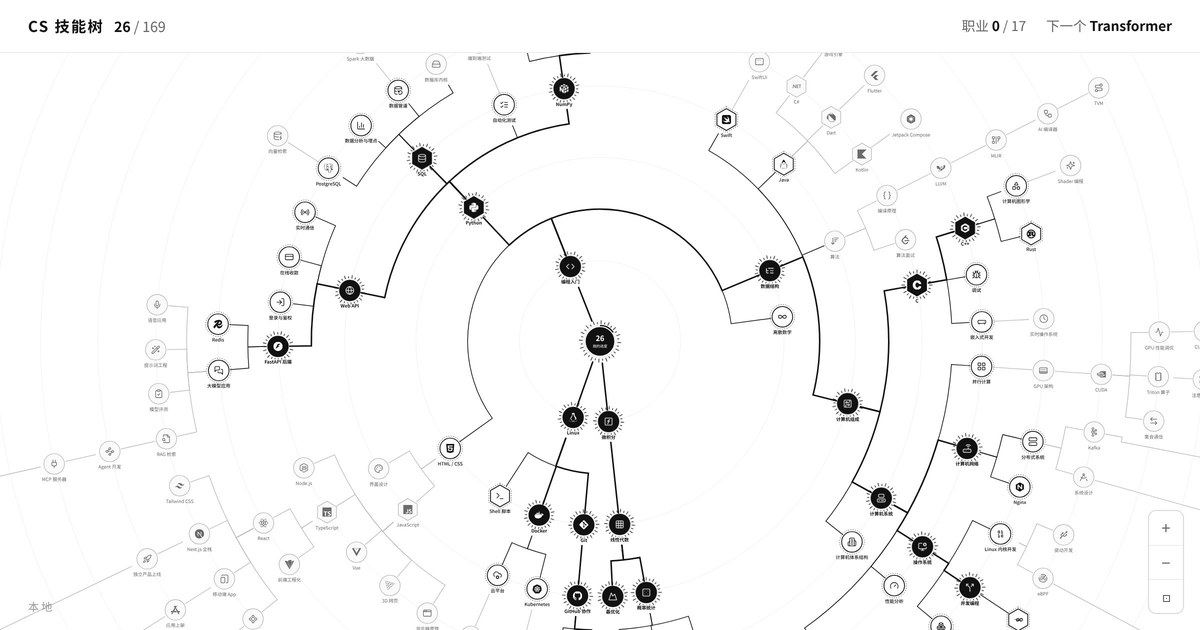
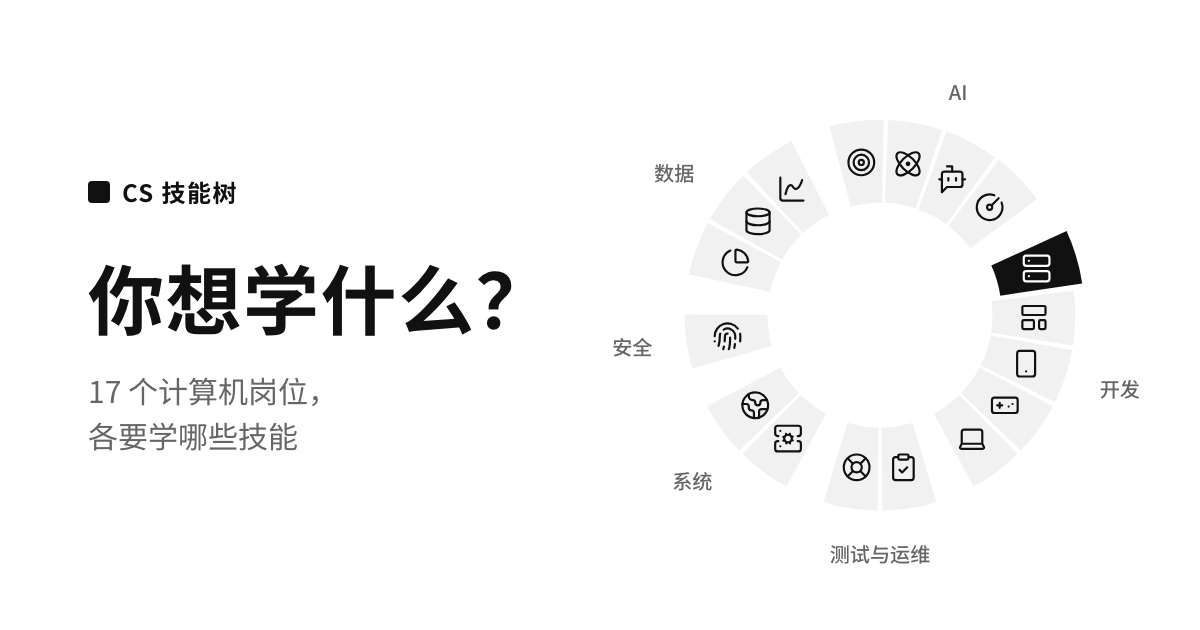
首页为 X 分享优化
- 新的分享卡片图，标题和描述改成“你想学什么？17 个计算机岗位，各要学哪些技能”
- 手机第一屏放下标题、圆环和提示；顶栏改成文字链接
- 圆环去掉灰色轨道，扇形更浅，类别名更细
- 技能选项引用同一份图标，页面减半

diff --git a/scripts/pages.ts b/scripts/pages.ts
@@ -89,7 +89,7 @@ ${p.app === undefined ? site(root, p.body) : `<div id="root">\n${p.body}\n</div>
 /** 站点的页头、正文、页脚 */
 const site = (root: string, body: string) => `<header class="top">
   <a class="logo" href="${root}"><span class="mark"></span>${NAME}</a>
-  <nav><a class="btn" href="${root}tree/">打开技能树</a></nav>
+  <nav><a href="${root}tree/">全部技能</a></nav>
 </header>
 <main>
 ${body}
@@ -114,7 +114,7 @@ export function renderSite(rm: Roadmap, app = ''): Map<string, string> {
     const l = layoutTree(tree, { career: c.id })
     // 小树不写名字，层和层之间压紧一点（K）；横着的就是把往上长的整棵转 90°：往上变成往右，图标不转
     const K = 0.55
-    const P = (x: number, y: number) => (side ? [-y * K, x] : [x, y * K])
+    const P = (x: number, y: number) => (side ? [-y * K, x] : [x, y * K]).map(Math.round)
     const { minX, maxX } = l.bounds
     const [minY, maxY] = [l.bounds.minY * K, l.bounds.maxY * K]
     const [vx, vy, vw, vh] = (side ? [-maxY, minX, maxY - minY, maxX - minX] : [minX, minY, maxX - minX, maxY - minY]).map(Math.round)
@@ -190,7 +190,7 @@ export function renderSite(rm: Roadmap, app = ''): Map<string, string> {
         parts.push(`<a class="job" href="career/${c.id}/" data-id="${c.id}" data-name="${esc(c.name)}" data-cat="${esc(cat.name)}" data-intro="${esc(c.intro)}" data-tx="${tx}" data-ty="${ty}" style="--i:${i++};--dx:${dx}px;--dy:${dy}px" aria-label="${esc(c.name)}">` +
           `<g class="w"><path class="wedge" d="M${ox1},${oy1} A${RO},${RO} 0 0 1 ${ox2},${oy2} L${ix2},${iy2} A${RI},${RI} 0 0 0 ${jx1},${jy1}Z"/>` +
           `<g transform="translate(${r1(ix - 26)},${r1(iy - 26)}) scale(2.17)">${icon(c.icon)}</g>` +
-          `<path class="track" d="${arc(RP, b1, b2)}"/><path class="prog" d="${arc(RP, b1, b2)}" pathLength="100" stroke-dasharray="0 100"/></g></a>`)
+          `<path class="prog" d="${arc(RP, b1, b2)}" pathLength="100" stroke-dasharray="0 100"/></g></a>`)
         pos++
       }
       pos += GAP
@@ -208,8 +208,8 @@ export function renderSite(rm: Roadmap, app = ''): Map<string, string> {
     }
     put({
       path: '',
-      title: `${NAME}：${rm.skills.length} 个计算机技能和 ${rm.subs.length} 个职业的学习路线`,
-      description: `一棵 ${rm.skills.length} 个技能的计算机技能树：点亮你会的，看清自己的能力边界，按 ${rm.subs.length} 个职业倒推学习路线，每个技能附公开课。免费，不用注册。`,
+      title: `你想学什么？${rm.subs.length} 个计算机岗位，各要学哪些技能 | ${NAME}`,
+      description: `${rm.subs.length} 个计算机岗位，各要学哪些技能、按什么顺序学、去哪免费学。点亮你会的，看离岗位还差几个。免费，不用注册。`,
       body: `
 <script>
 /* 技能树以前在首页：旧的分享链接和技能链接（#share=… / #/skill/…）转到 tree/ */
@@ -231,7 +231,7 @@ try {
     <p class="pk-meta"></p>
     <p class="pk-intro"></p>
     <div class="minis">${rm.subs.map((c) => `<div class="mini" data-id="${c.id}">${miniTree(c, false)}${miniTree(c, true)}</div>`).join('')}</div>
-    ${rm.subs.map((c) => `<div class="has" data-id="${c.id}"><p class="pk-ask">要学这 ${c.plan.length} 个，会的点一下</p><div class="quick">${c.plan.map(({ skillId: id }) => `<button type="button" class="chip" data-s="${id}" aria-pressed="false">${icon(sk(id).icon, 14)}${esc(sk(id).name)}</button>`).join('')}</div></div>`).join('')}
+    ${rm.subs.map((c) => `<div class="has" data-id="${c.id}"><p class="pk-ask">要学这 ${c.plan.length} 个，会的点一下</p><div class="quick">${c.plan.map(({ skillId: id }) => `<button type="button" class="chip" data-s="${id}" aria-pressed="false"><svg width="14" height="14" aria-hidden="true"><use href="#i-${id}"/></svg>${esc(sk(id).name)}</button>`).join('')}</div></div>`).join('')}
     <a class="go" href="">就学这个</a>
   </aside>
 </div>

diff --git a/site/site.css b/site/site.css
@@ -12,10 +12,10 @@ h1, h2, h3 { line-height: 1.25; margin: 0; }
 .top { position: sticky; top: 0; z-index: 10; display: flex; align-items: center; justify-content: space-between; gap: 16px; height: 60px; padding: 0 24px; background: rgba(255,255,255,.92); backdrop-filter: blur(8px); border-bottom: 1px solid var(--line-2); }
 .logo { display: flex; align-items: center; gap: 10px; font-weight: 700; letter-spacing: .06em; text-decoration: none; white-space: nowrap; }
 .logo .mark { width: 16px; height: 16px; border-radius: 3px; background: var(--ink); }
-.top nav { display: flex; align-items: center; gap: 22px; font-size: 14px; }
+.top nav { display: flex; align-items: center; gap: 22px; font-size: 13px; }
+.top nav a { color: var(--ink-2); text-decoration: none; }
+.top nav a:hover { color: var(--ink); }
 
-.btn { display: inline-flex; align-items: center; gap: 6px; padding: 8px 16px; border: 1.5px solid var(--ink); border-radius: 999px; background: var(--ink); color: #fff; font-weight: 700; text-decoration: none; white-space: nowrap; transition: transform .2s var(--ease), box-shadow .2s var(--ease); }
-.btn:hover { transform: translateY(-1px); box-shadow: 0 6px 18px rgba(0,0,0,.14); }
 
 
 /* 卡片 */
@@ -73,14 +73,13 @@ h1, h2, h3 { line-height: 1.25; margin: 0; }
 /* 岗位圆环：扇形里只有图标，外面只写大方向。字都在图里，跟圆环一起缩放 */
 .ring { position: relative; align-self: start; }
 .jobs { display: block; width: 100%; height: auto; overflow: visible; }
-.cat { font-size: calc(var(--cat, 27) * 1px); font-weight: 700; fill: var(--ink-2); dominant-baseline: central; }
+.cat { font-size: calc(var(--cat, 27) * 1px); font-weight: 500; fill: var(--ink-2); dominant-baseline: central; }
 .job { outline: none; cursor: pointer; }
 .job .w { transition: transform .35s var(--ease); animation: rise .45s var(--ease) backwards; animation-delay: calc(var(--i) * 35ms); }
-.wedge { fill: var(--wash); transition: fill .25s; }
+.wedge { fill: #f7f7f7; transition: fill .25s; }
 .job .w svg { color: var(--ink); transition: color .25s; }
-.job .track { fill: none; stroke: var(--line-2); stroke-width: 7; }
 .job .prog { fill: none; stroke: var(--ink); stroke-width: 7; transition: stroke-dasharray .5s var(--ease); }
-.job:hover .wedge, .job:focus-visible .wedge { fill: var(--line); }
+.job:hover .wedge, .job:focus-visible .wedge { fill: var(--line-2); }
 .job.done .wedge { fill: var(--off-ink); }
 .job.done .w svg { color: #fff; }
 .job.on .w { transform: translate(var(--dx), var(--dy)); }
@@ -96,10 +95,10 @@ h1, h2, h3 { line-height: 1.25; margin: 0; }
 
 /* 窄屏一栏排下来：圆环、岗位、小树、技能、按钮 */
 @media (max-width: 860px) {
-  .home { grid-template-columns: 1fr; padding-top: 32px; }
-  .home h1 { margin-bottom: 16px; font-size: 32px; }
-  .pick { margin-top: 24px; }
-  .pick-hint { display: none; }
+  .home { grid-template-columns: 1fr; padding-top: 24px; }
+  .home h1 { margin-bottom: 8px; font-size: 32px; }
+  .pick { margin-top: 16px; }
+  .pick-hint { margin: 0; font-size: 13px; }
   .pk-name { font-size: 32px; }
   .ring { width: min(100%, 520px); justify-self: center; }
 }
